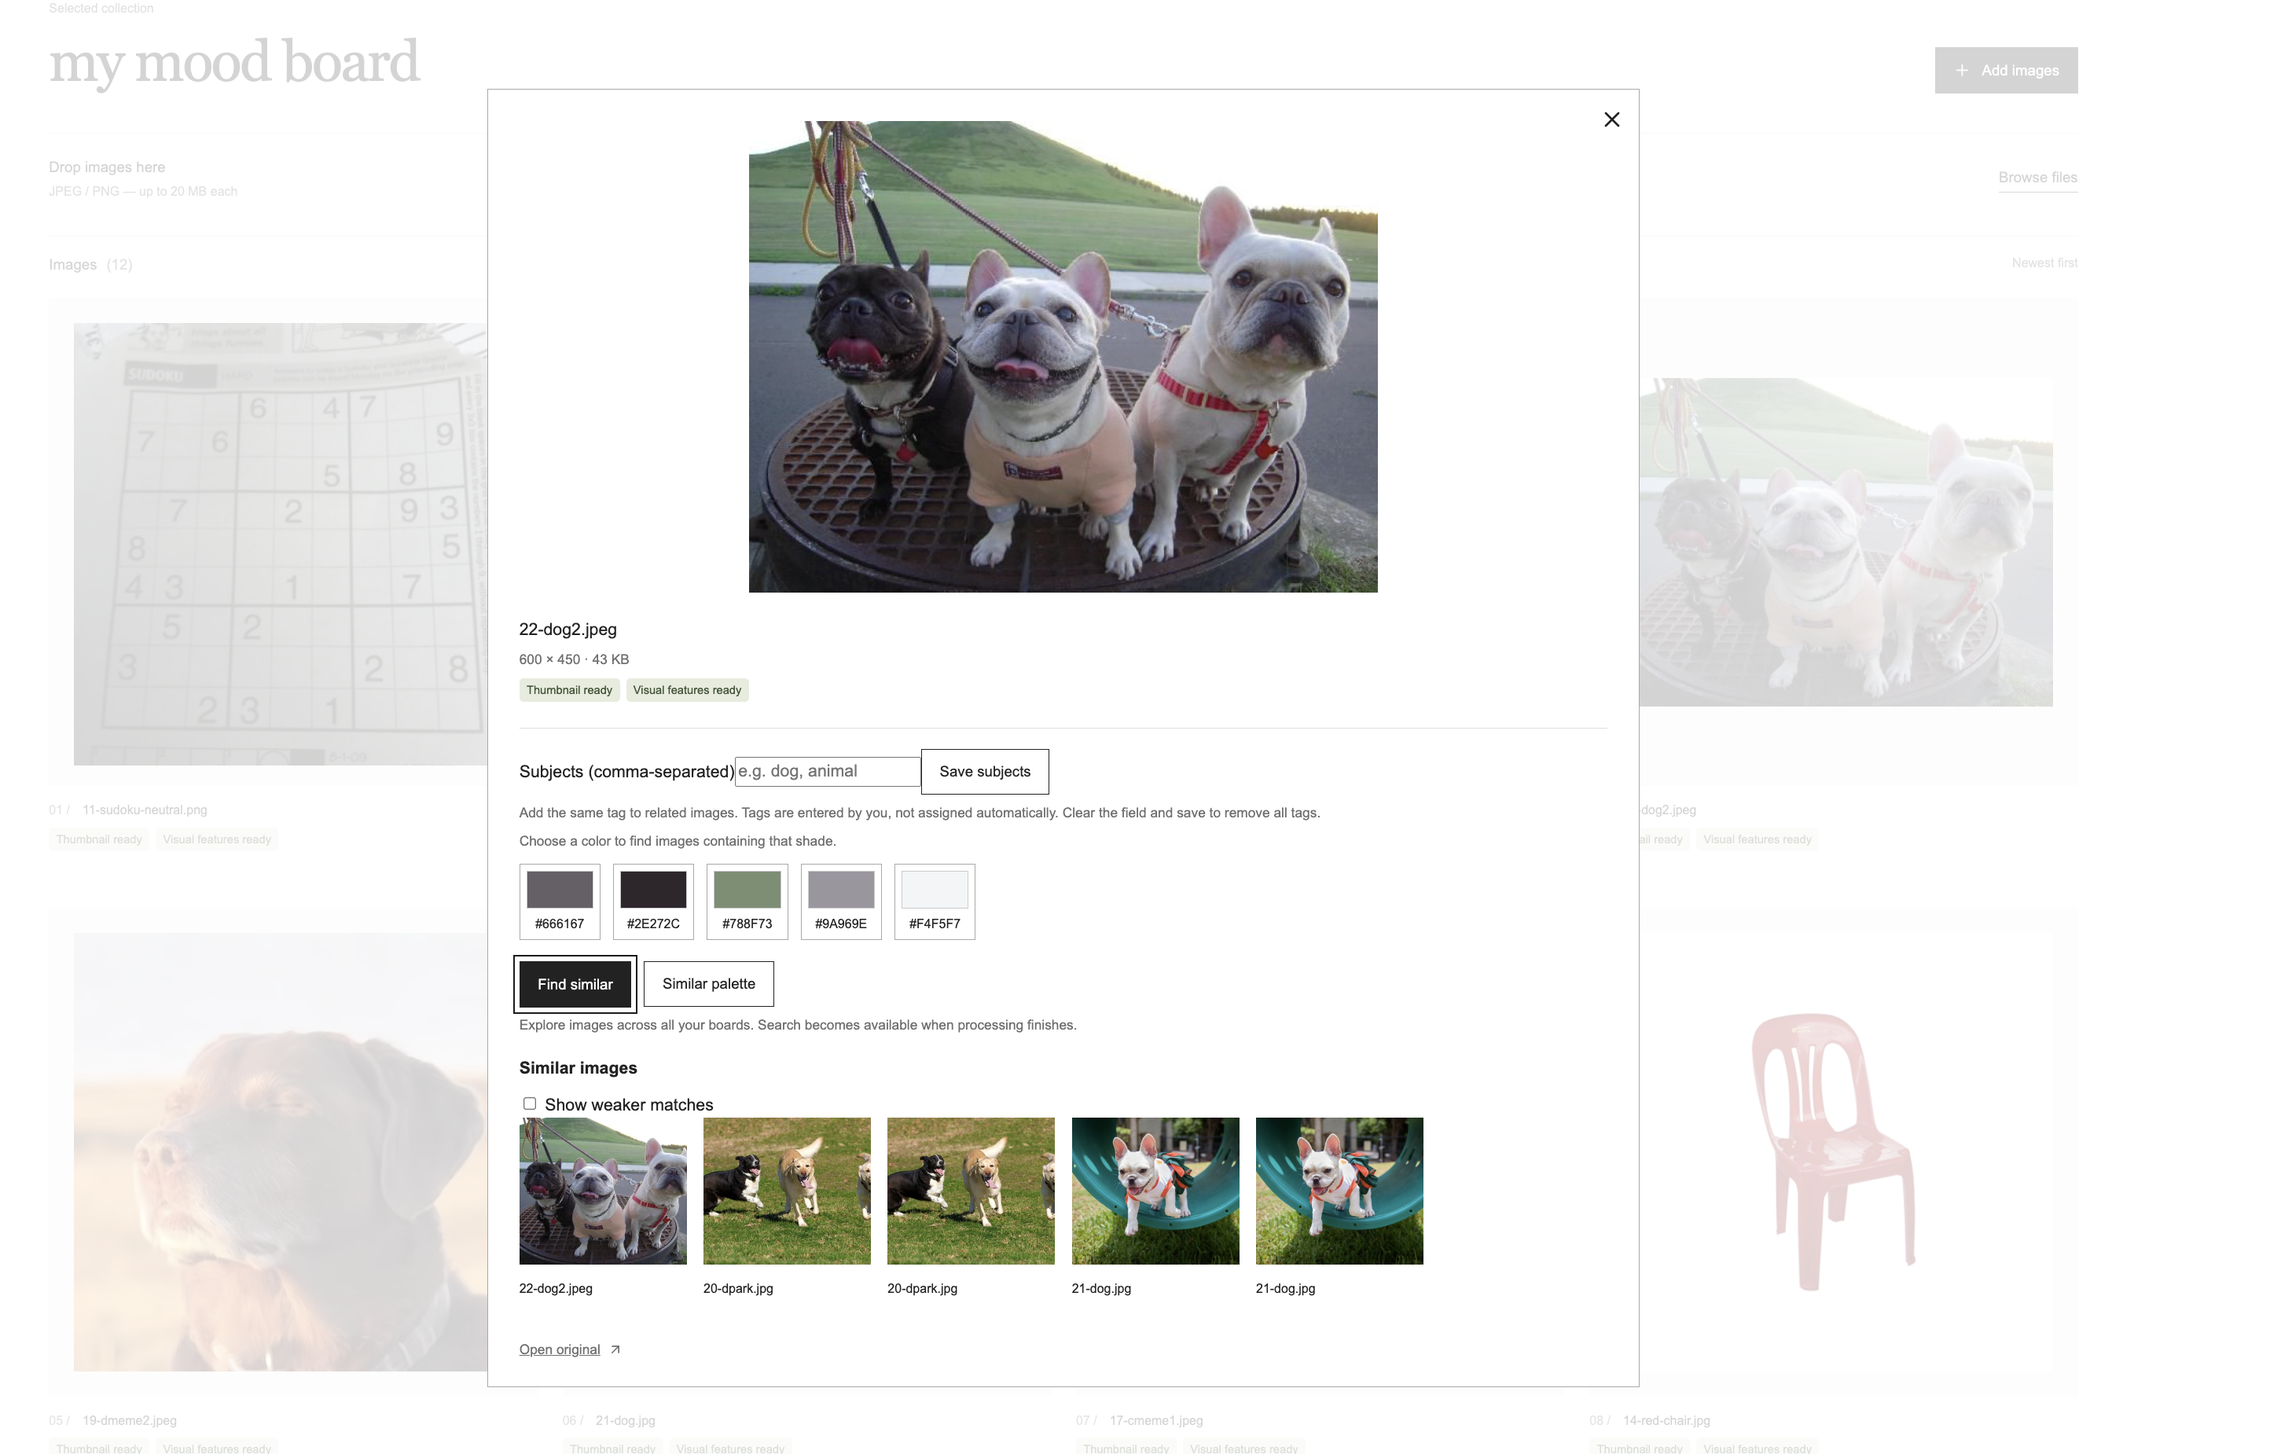
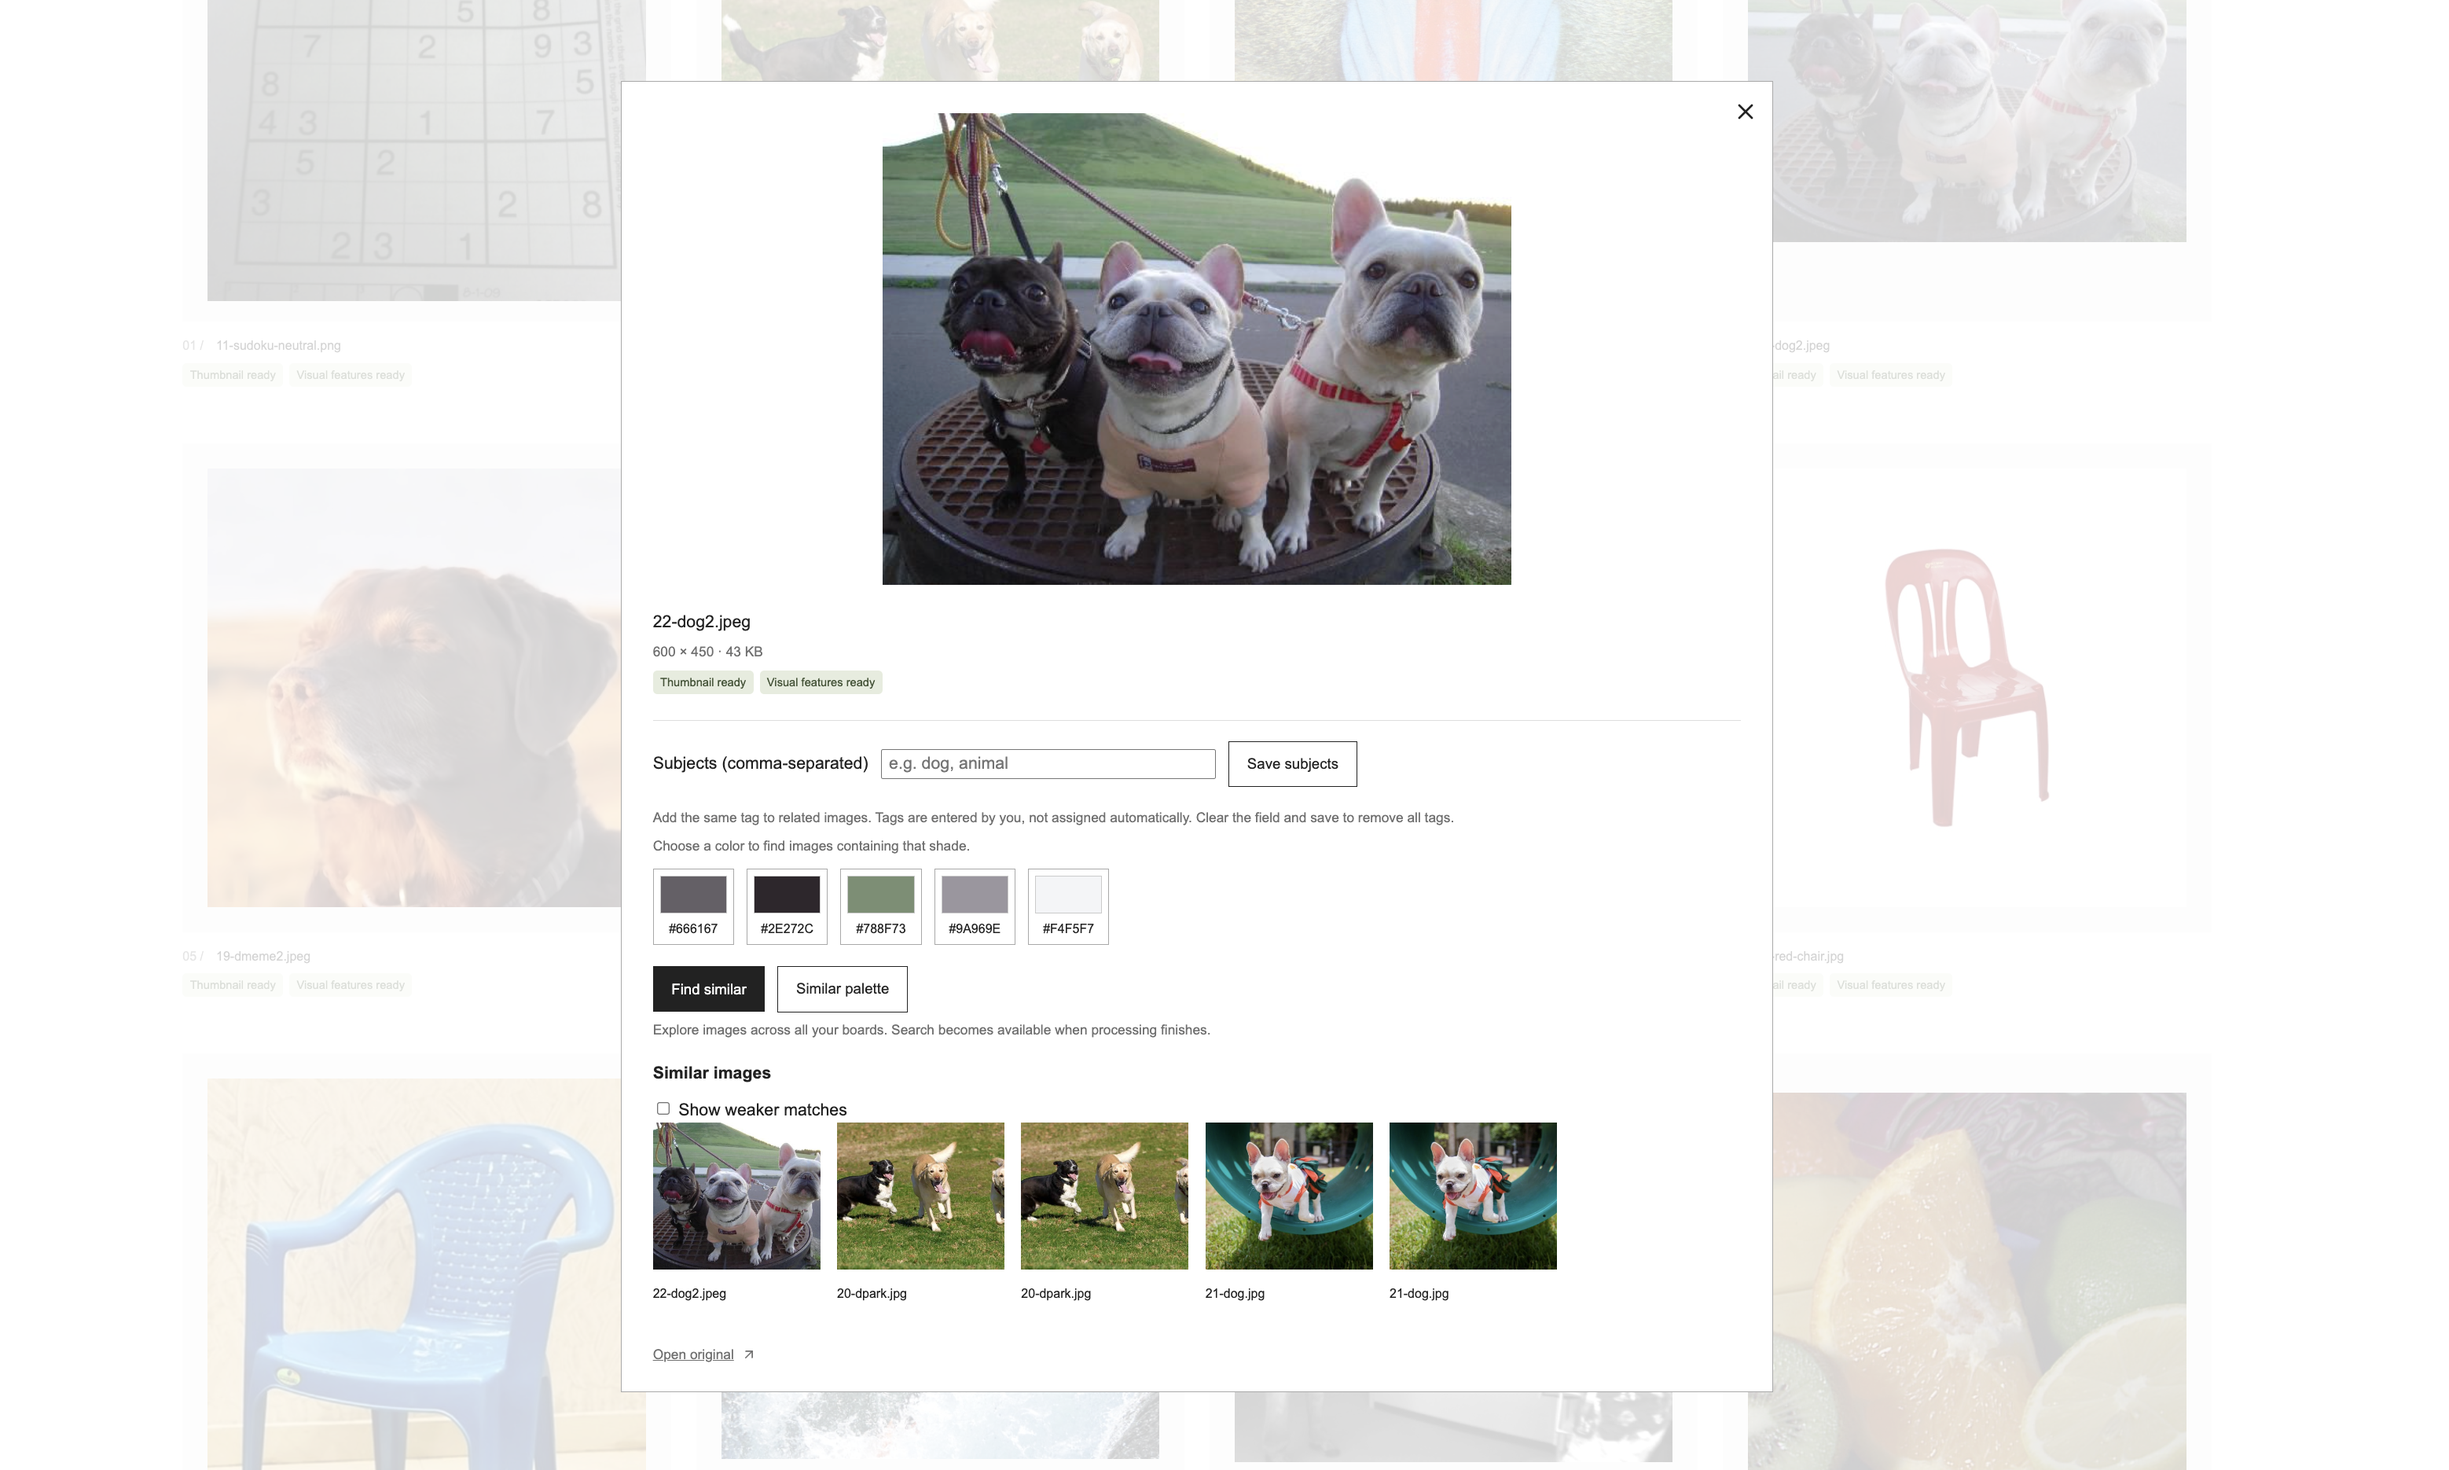
Add small UI fix

diff --git a/frontend/src/style.css b/frontend/src/style.css
@@ -167,6 +167,9 @@ dialog::backdrop { background: #ffffffcf; }
 .palette span { min-width: 2px; }
 
 .discovery { margin: 24px 0; border-top: 1px solid var(--line, #ddd); padding-top: 20px; }
+.discovery form { display: flex; align-items: center; gap: 12px; flex-wrap: wrap; }
+.discovery form input { flex: 0 1 320px; min-width: 0; max-width: 100%; }
+.discovery form label { margin: 0; }
 .discovery-actions { display: flex; gap: 12px; flex-wrap: wrap; }
 .discovery-actions [aria-pressed="true"] { background: #222; color: white; }
 .discovery h3 { font-size: 16px; margin: 20px 0 12px; }

diff --git a/frontend/src/Discovery.tsx b/frontend/src/Discovery.tsx
@@ -105,7 +105,7 @@ export function Discovery({
           id="subject-tags"
           value={tags}
           disabled={saving}
-          placeholder="e.g. dog, animal"
+          placeholder=" e.g. dog, animal"
           onChange={(event) => {
             setTags(event.target.value)
             setTagSaved(false)
